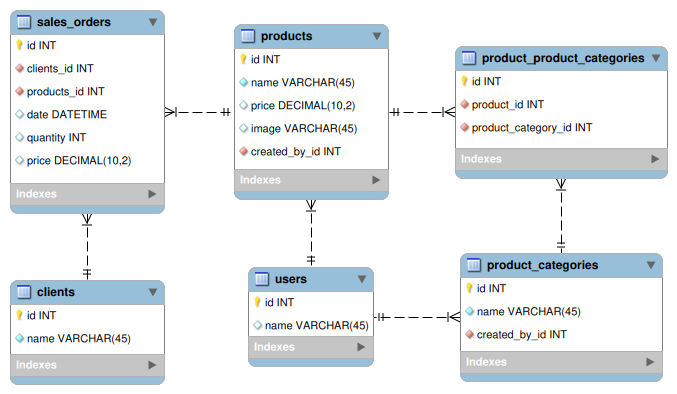
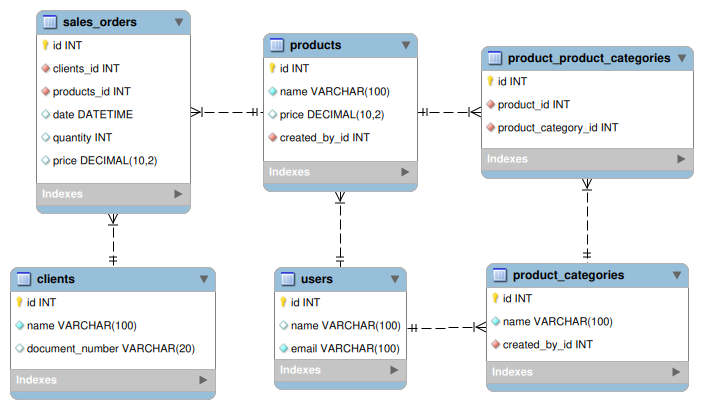
Add models, relanshionships and specs

diff --git a/db/schema.rb b/db/schema.rb
@@ -11,6 +11,59 @@
 #
 # It's strongly recommended to check this file into your version control system.
 
-ActiveRecord::Schema.define(:version => 0) do
+ActiveRecord::Schema.define(:version => 20241007124359) do
+
+  create_table "clients", :force => true do |t|
+    t.string   "name",            :limit => 100, :null => false
+    t.string   "document_number", :limit => 100, :null => false
+    t.datetime "created_at",                     :null => false
+    t.datetime "updated_at",                     :null => false
+  end
+
+  add_index "clients", ["name", "document_number"], :name => "index_clients_on_name_and_document_number", :unique => true
+
+  create_table "product_categories", :force => true do |t|
+    t.string   "name",          :limit => 100, :null => false
+    t.integer  "created_by_id",                :null => false
+    t.datetime "created_at",                   :null => false
+    t.datetime "updated_at",                   :null => false
+  end
+
+  add_index "product_categories", ["name"], :name => "index_product_categories_on_name", :unique => true
+
+  create_table "product_product_categories", :force => true do |t|
+    t.integer  "product_id",          :null => false
+    t.integer  "product_category_id", :null => false
+    t.datetime "created_at",          :null => false
+    t.datetime "updated_at",          :null => false
+  end
+
+  add_index "product_product_categories", ["product_id", "product_category_id"], :name => "index_prod_prod_cat_on_prod_id_and_prod_cat_id", :unique => true
+
+  create_table "products", :force => true do |t|
+    t.string   "name",          :limit => 100,                                :null => false
+    t.decimal  "price",                        :precision => 10, :scale => 2, :null => false
+    t.integer  "created_by_id",                                               :null => false
+    t.datetime "created_at",                                                  :null => false
+    t.datetime "updated_at",                                                  :null => false
+  end
+
+  add_index "products", ["name"], :name => "index_products_on_name", :unique => true
+
+  create_table "users", :force => true do |t|
+    t.string   "name",       :limit => 100, :null => false
+    t.string   "email",      :limit => 100, :null => false
+    t.datetime "created_at",                :null => false
+    t.datetime "updated_at",                :null => false
+  end
+
+  add_index "users", ["email"], :name => "index_users_on_email", :unique => true
+
+  add_foreign_key "product_categories", "users", name: "product_categories_created_by_id_fk", column: "created_by_id"
+
+  add_foreign_key "product_product_categories", "product_categories", name: "product_product_categories_product_category_id_fk"
+  add_foreign_key "product_product_categories", "products", name: "product_product_categories_product_id_fk"
+
+  add_foreign_key "products", "users", name: "products_created_by_id_fk", column: "created_by_id"
 
 end

diff --git a/spec/models/user_spec.rb b/spec/models/user_spec.rb
@@ -1,0 +1,30 @@
+require 'rails_helper'
+
+RSpec.describe User, :type => :model do
+  fixtures :users
+
+  subject(:user) {
+    user = User.new(name: "Bob")
+    # No se setea en new para evitar el error:
+    # ActiveModel::MassAssignmentSecurity::Error:
+    # Can't mass-assign protected attributes: email, password
+    user.email = "bob@email.com"
+    user
+  }
+
+  it "save valid record" do
+    expect(user.save).to be(true)
+  end
+
+  it "save duplicate name" do
+    user.name = "Amy"
+    user.email = "amy_amy@email.com"
+    expect(user.save).to be(true)
+  end
+
+  it "not save duplicate email" do
+    user.name = "Amy"
+    user.email = "amy@email.com"
+    expect {user.save}.to raise_error(ActiveRecord::RecordNotUnique)
+  end
+end

diff --git a/spec/models/product_product_category_spec.rb b/spec/models/product_product_category_spec.rb
@@ -1,0 +1,20 @@
+require 'rails_helper'
+
+RSpec.describe ProductProductCategory, :type => :model do
+  fixtures :products, :product_categories, :product_product_categories
+
+  let(:categorized_product) { products(:jean) }
+
+  subject(:product_product_category) {
+    ProductProductCategory.new(product_id: products(:short).id, product_category_id: product_categories(:clothes).id)
+  }
+
+  it "save valid record" do
+    expect(product_product_category.save).to be(true)
+  end
+
+  it "not save duplicate combination of product and product_category" do
+    product_product_category.product_id = categorized_product.id
+    expect {product_product_category.save}.to raise_error(ActiveRecord::RecordNotUnique)
+  end
+end

diff --git a/spec/models/client_spec.rb b/spec/models/client_spec.rb
@@ -1,0 +1,24 @@
+require 'rails_helper'
+
+RSpec.describe Client, :type => :model do
+  fixtures :clients
+
+  subject(:client) {
+    Client.new(name: "Bob", document_number: "22222")
+  }
+
+  it "save valid record" do
+    expect(client.save).to be(true)
+  end
+
+  it "save duplicate name" do
+    client.name = "Amy"
+    expect(client.save).to be(true)
+  end
+
+  it "not save duplicate name and document_number" do
+    client.name = "Amy"
+    client.document_number = "11111"
+    expect {client.save}.to raise_error(ActiveRecord::RecordNotUnique)
+  end
+end

diff --git a/db/migrate/20241007124343_create_product_product_categories.rb b/db/migrate/20241007124343_create_product_product_categories.rb
@@ -1,0 +1,16 @@
+class CreateProductProductCategories < ActiveRecord::Migration
+  def change
+    create_table :product_product_categories do |t|
+      t.integer :product_id, null: false
+      t.foreign_key :products
+
+      t.integer :product_category_id, null: false
+      t.foreign_key :product_categories
+
+      t.timestamps
+    end
+
+    add_index :product_product_categories, [:product_id, :product_category_id],
+              name: 'index_prod_prod_cat_on_prod_id_and_prod_cat_id', unique: true
+  end
+end

diff --git a/spec/models/product_category_spec.rb b/spec/models/product_category_spec.rb
@@ -1,0 +1,18 @@
+require 'rails_helper'
+
+RSpec.describe ProductCategory, :type => :model do
+  fixtures :users, :product_categories
+
+  subject(:product_category) {
+    ProductCategory.new(name: "Toys", created_by_id: users(:amy).id)
+  }
+
+  it "save valid record" do
+    expect(product_category.save).to be(true)
+  end
+
+  it "not save duplicate name" do
+    product_category.name = "Clothes"
+    expect {product_category.save}.to raise_error(ActiveRecord::RecordNotUnique)
+  end
+end

diff --git a/spec/models/product_spec.rb b/spec/models/product_spec.rb
@@ -1,0 +1,18 @@
+require 'rails_helper'
+
+RSpec.describe Product, :type => :model do
+  fixtures :users, :products
+
+  subject(:product) {
+    Product.new(name: "T-shirt", price: 9.99, created_by_id: users(:amy).id)
+  }
+
+  it "save valid record" do
+    expect(product.save).to be(true)
+  end
+
+  it "not save duplicate name" do
+    product.name = "Jean"
+    expect {product.save}.to raise_error(ActiveRecord::RecordNotUnique)
+  end
+end

diff --git a/db/migrate/20241007124238_create_products.rb b/db/migrate/20241007124238_create_products.rb
@@ -1,0 +1,15 @@
+class CreateProducts < ActiveRecord::Migration
+  def change
+    create_table :products do |t|
+      t.string :name, limit: 100, null: false
+      t.decimal :price, precision: 10, scale: 2, null: false
+
+      t.integer :created_by_id, null: false
+      t.foreign_key :users, column: :created_by_id
+
+      t.timestamps
+    end
+
+    add_index :products, :name, unique: true
+  end
+end

diff --git a/db/migrate/20241007124308_create_product_categories.rb b/db/migrate/20241007124308_create_product_categories.rb
@@ -1,0 +1,14 @@
+class CreateProductCategories < ActiveRecord::Migration
+  def change
+    create_table :product_categories do |t|
+      t.string :name, limit: 100, null: false
+
+      t.integer :created_by_id, null: false
+      t.foreign_key :users, column: :created_by_id
+
+      t.timestamps
+    end
+
+    add_index :product_categories, :name, unique: true
+  end
+end

diff --git a/db/migrate/20241007124359_create_clients.rb b/db/migrate/20241007124359_create_clients.rb
@@ -1,0 +1,12 @@
+class CreateClients < ActiveRecord::Migration
+  def change
+    create_table :clients do |t|
+      t.string :name, limit: 100, null: false
+      t.string :document_number, limit: 20, null: false
+
+      t.timestamps
+    end
+
+    add_index :clients, [:name, :document_number], unique: true
+  end
+end

diff --git a/db/migrate/20241007121839_create_users.rb b/db/migrate/20241007121839_create_users.rb
@@ -1,0 +1,12 @@
+class CreateUsers < ActiveRecord::Migration
+  def change
+    create_table :users do |t|
+      t.string :name, limit: 100, null: false
+      t.string :email, limit: 100, null: false
+
+      t.timestamps
+    end
+
+    add_index :users, :email, unique: true
+  end
+end

diff --git a/app/models/product_product_category.rb b/app/models/product_product_category.rb
@@ -1,0 +1,6 @@
+class ProductProductCategory < ActiveRecord::Base
+  attr_accessible :product_category_id, :product_id
+
+  belongs_to :product
+  belongs_to :product_category
+end
